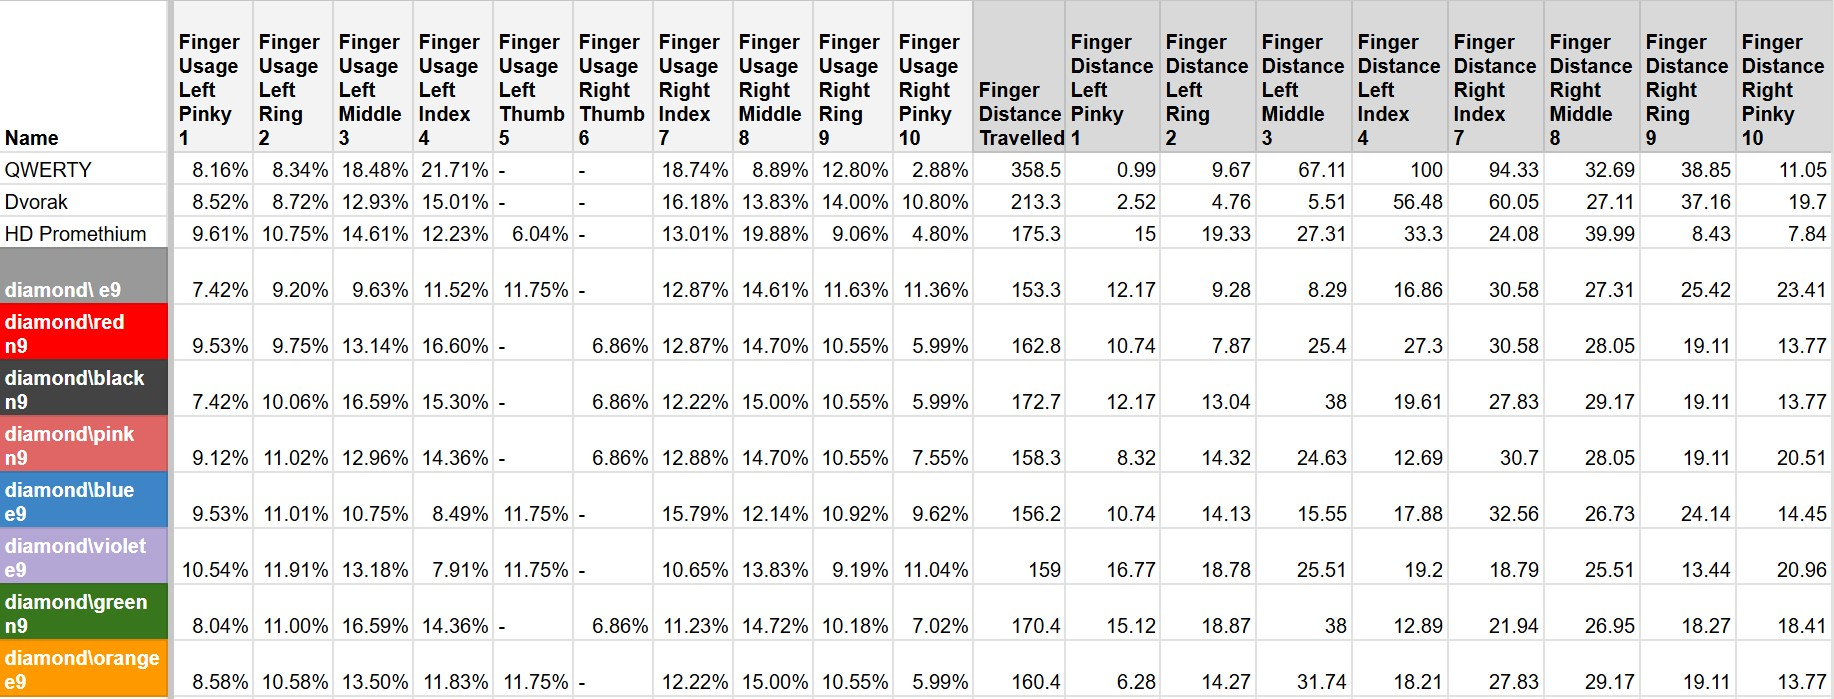
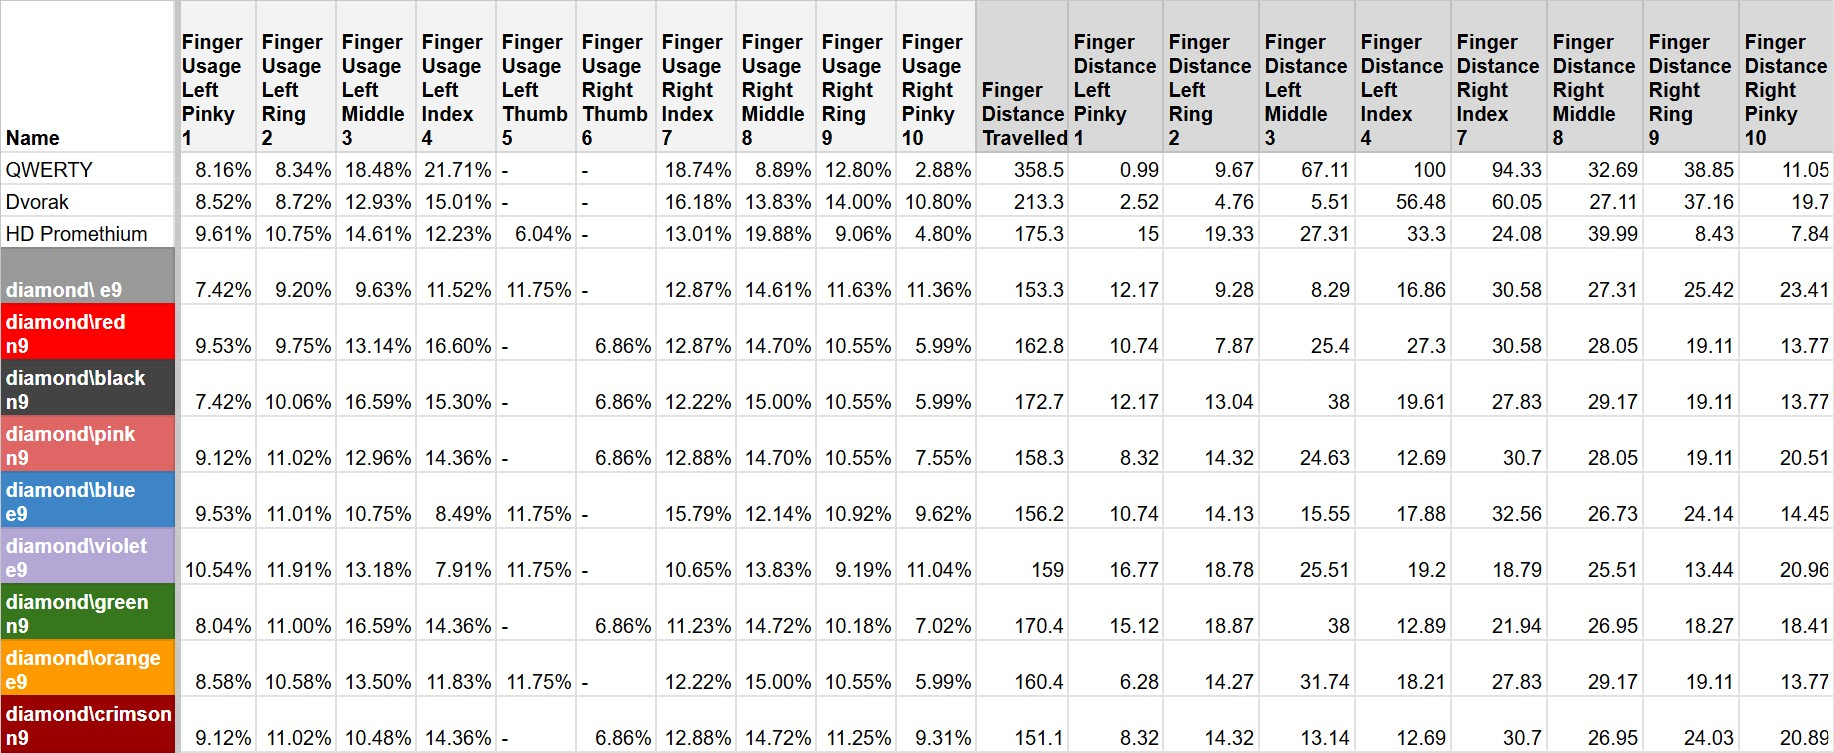
added diamond\crimson n9 and updated stats and readme

diff --git a/proof_of_concepts/diamond_backslash_crimson n9/description.md b/proof_of_concepts/diamond_backslash_crimson n9/description.md
@@ -1,0 +1,31 @@
+# diamond\crimson n9
+
+This is a version of the diamond\crimson mirroring keyboard layout to be used with keyboards that use split spacebars such as Alice Layout Keyboards or other ergonomic keyboards with thumb keys, n9 refers to the 'n' key being used with your thumb and '9' refers to using 9 fingers and 1 thumb and not 8 fingers and 1 thumb.
+
+The diamond\\crimson mirroring keyboard layout can only work with ergonomic keyboards hence there is no row-staggered version because this keyboard layout strictly requires a thumb key for the letter 'N' to work.
+
+Here is a screenshot of the layout by using the analytical data from the webpage [created by cyanophage on github.](https://cyanophage.github.io/)
+
+![image of diamond\\crimson n9 version heatmap](https://raw.githubusercontent.com/r134x7/diamond_backslash/refs/heads/main/images/diamond_backslash_crimson_n9_heatmap.jpg)
+
+![image of diamond\\crimson n9 version bigram frequency](https://raw.githubusercontent.com/r134x7/diamond_backslash/refs/heads/main/images/diamond_backslash_crimson_n9_bigram_frequency.jpg)
+
+Note that you cannot remap keys on the above image, only swap them around.
+
+Below is the old version of diamond\\red before it was made redundant by diamond\\pink because they were too similar and that I preferred the stats diamond\\pink was giving out that I had to do a complete redesign of diamond\\red into what you see in its folder currently.
+
+![image of diamond\\red old version used on keybr dot com](https://raw.githubusercontent.com/r134x7/diamond_backslash/refs/heads/main/images/keybr_diamond_backslash_red_1.jpg)
+
+I still remembered that the 'G' key on the left side increased the Alternating Hand rates more than 'H' and lowered finger usage on the left middle finger. As I have been learning diamond\\pink n9 and diamond\\orange e9, I am once again preferring diamond\\pink n9 despite diamond\\orange having better word effort ratings because of what has become my preference for keyboard layouts with: low finger distance travelling, low redirect rates and high alternating hand rates.
+
+Since I couldn't increase diamond\\pink n9's total alt rates over that of Dvorak (it is less than 1% difference, see stat images below), I went to see if I could try something different and bring back 'G' onto the left side and trying to not just create an 'HRL' column on the right index finger (because it would create a lot of finger distance travelling) provided results I didn't expect which was, total alt rates higher than Dvorak and, finger distance travelling that is even lower than diamond\ e9. This resulted in the creation of diamond\\crimson n9 and I gave it that name since diamond\\red n9 was already taken and I still wanted to use a red name since it was based on the old version of diamond\\red above.
+
+Since HD Promethium was an ergonomic keyboard layout I mentioned in the backstory of my readme in the repository, here are screenshots to show a comparison between HD Promethium and all of the diamond\ mirroring keyboard layout ergonomic versions:
+
+(The analytical data below came from the webpage [created by cyanophage on github.](https://cyanophage.github.io/))
+
+![image of diamond\\ ergonomic version part 1](https://raw.githubusercontent.com/r134x7/diamond_backslash/refs/heads/main/images/keyboard_stats_11.jpg)
+![image of diamond\\ ergonomic version part 2](https://raw.githubusercontent.com/r134x7/diamond_backslash/refs/heads/main/images/keyboard_stats_12.jpg)
+![image of diamond\\ ergonomic version part 3](https://raw.githubusercontent.com/r134x7/diamond_backslash/refs/heads/main/images/keyboard_stats_13.jpg)
+![image of diamond\\ ergonomic version part 4](https://raw.githubusercontent.com/r134x7/diamond_backslash/refs/heads/main/images/keyboard_stats_14.jpg)
+![image of diamond\\ ergonomic version part 5](https://raw.githubusercontent.com/r134x7/diamond_backslash/refs/heads/main/images/keyboard_stats_15.jpg)

diff --git a/README.md b/README.md
@@ -20,6 +20,7 @@ There are currently fifteen diamond\ mirroring keyboard layouts, seven that are 
 - diamond\violet e9
 - diamond\green n9
 - diamond\orange e9
+- diamond\crimson n9
 
 The kanata.kbd file is to be used with Kanata which was created by [jtroo, link to Kanata repo here: https://github.com/jtroo/kanata](https://github.com/jtroo/kanata)
 
@@ -318,13 +319,27 @@ This one is like diamond\violet but for those that prefer three vowels on the ho
 
 The kbd file for diamond\green is inside the proof of concepts folder under diamond_backslash_green
 
-## diamond\orange (ergonomic) mirroring keyboard layout
+## diamond\orange e9 mirroring keyboard layout
 
 This diamond\ mirroring keyboard layout is different because it can only work on ergonomic keyboards since it strictly requires the use of a thumb key assigned to the letter 'E' 
 
+Note: I have learned this layout using an Alice Layout keyboard from Keychron.
+
 Here is diamond\orange (ergonomic)
 
-![image of diamond\\orange ergonomic keyboard layout](https://raw.githubusercontent.com/r134x7/diamond_backslash/refs/heads/main/images/diamond_backslash_orange_ergonomic_heatmap.jpg)
+![image of diamond\\orange ergonomic keyboard layout](https://raw.githubusercontent.com/r134x7/diamond_backslash/refs/heads/main/images/diamond_backslash_orange_e9_latest_heatmap)
+
+See the description file for diamond\orange (ergonomic) in the proof_of_concepts folder inside another folder titled "diamond_backslash_orange ergonomic version" in this repository.
+
+## diamond\crimson n9 mirroring keyboard layout
+
+This diamond\ mirroring keyboard layout is different because it can only work on ergonomic keyboards since it strictly requires the use of a thumb key assigned to the letter 'N' 
+
+Note: I have learned this layout using an Alice Layout keyboard from Keychron.
+
+Here is diamond\crimson (ergonomic)
+
+![image of diamond\\crimson ergonomic keyboard layout](https://raw.githubusercontent.com/r134x7/diamond_backslash/refs/heads/main/images/diamond_backslash_crimson_n9_ergonomic_heatmap.jpg)
 
 See the description file for diamond\orange (ergonomic) in the proof_of_concepts folder inside another folder titled "diamond_backslash_orange ergonomic version" in this repository.
 
@@ -522,6 +537,9 @@ diamond\\red n9 (latest version), finished with J left to unlock on January 31st
 diamond\\orange e9 (latest version), finished with Q and J left to unlock on February 2nd 2026:
 ![screenshot from keybr for learning the above layout](https://raw.githubusercontent.com/r134x7/diamond_backslash/refs/heads/main/images/keybr_diamond_backslash_orange_e9_1.jpg)
 
+diamond\\crimson n9, unlocked all keys on February 5th 2026:
+![screenshot from keybr for learning the above layout](https://raw.githubusercontent.com/r134x7/diamond_backslash/refs/heads/main/images/keybr_diamond_backslash_crimson_1.jpg)
+
 ---
 
 Adding to the above, I kept track of the amount of days I spent learning each layout.
@@ -578,3 +596,11 @@ took 1 days to reach E,N,I,A,R,L,T,O,S,U,D,Y,C,G,H,P
 took 2 days to reach E,N,I,A,R,L,T,O,S,U,D,Y,C,G,H,P,M,K,B,W,F,Z,V,X,Q
 
 currently day 6 (for this layout) - 2 letters left to unlock
+
+7:
+diamond\crimson n9
+started on day 9 (for all layouts)
+took 1 day to reach E,N,I,A,R,L,T,O,S,U,D,Y,C,G,H,P,M,K,B,W,F,Z,V,X,Q,J.
+
+currently day 1 (for this layout) - All keys unlocked!
+finished on day 9 (for all layouts)
